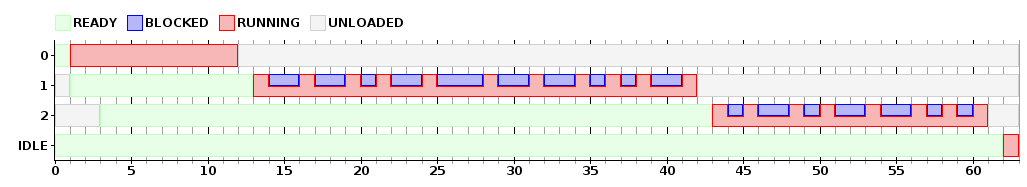
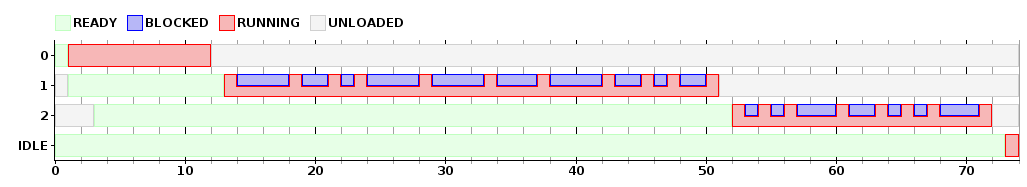
informe hasta ej 6 fix de TaskBatch semillas en metodos rand()

diff --git a/tp1/tp1-code/tasks.cpp b/tp1/tp1-code/tasks.cpp
@@ -19,12 +19,22 @@ void TaskCon(vector<int> params) { // params: 3
 	int n = params[0];
 	int bmin = params[1];
 	int bmax = params[2];
+	
+	// INICIALIZAMOS SEMILLA DE RAND()
+	srand ( time(NULL) );
+	
 	for( int i = 0; i < n ; i++ ) {
 		int time = bmin;
 		if(bmin != bmax)
-			time = (rand()%(bmax-bmin))+bmin;
+			time = (rand()%(bmax-bmin+1))+bmin;
 		uso_IO(time);
 	}
+}
+
+void TaskCPUIOCPU(vector<int> params) { // params: ms_cpu1, ms_io, ms_cpu2
+	uso_CPU(params[0]); // Uso el CPU ms_cpu1 milisegundos.
+	uso_IO(params[1]); // Uso IO ms_io milisegundos.
+	uso_CPU(params[2]); // Uso el CPU ms_cpu2 milisegundos.
 }
 
 void TaskLongCPUMultipleIO(vector<int> params) { // params: n
@@ -32,6 +42,10 @@ void TaskLongCPUMultipleIO(vector<int> params) { // params: n
 	int n = params[1];
 	int bmin = params[2];
 	int bmax = params[3];
+	
+	// INICIALIZAMOS SEMILLA DE RAND()
+	srand ( time(NULL) );
+	
 	for( int i = 0; i < n ; i++ ) {
 		int time = bmin;
 		if(bmin != bmax)
@@ -44,6 +58,10 @@ void TaskMultipleIOLongCPU(vector<int> params) { // params: n
 	int n = params[1];
 	int bmin = params[2];
 	int bmax = params[3];
+	
+	// INICIALIZAMOS SEMILLA DE RAND()
+	srand ( time(NULL) );
+	
 	for( int i = 0; i < n ; i++ ) {
 		int time = bmin;
 		if(bmin != bmax)
@@ -54,24 +72,26 @@ void TaskMultipleIOLongCPU(vector<int> params) { // params: n
 }
 
 void TaskBatch(vector<int> params) {
-	int blocksC = params[1];
 	int tot = params[0];
-	vector<bool> blocks = vector<bool>(tot-blocksC);
+	int blocksC = params[1];
+	
+	// INICIALIZAMOS SEMILLA DE RAND()
+	srand ( time(NULL) );
+	
+	vector<bool> blocks = vector<bool>(tot-blocksC-1);
 	for(int i=0;i<blocksC;i++) {
-		int blockT = rand()%(tot-blocksC-1);
+		int blockT = rand()%(blocks.size()-1);
 		if( !blocks[blockT] )
 			blocks[blockT] = true;
 		else
 			i--;
 	}
-	for(int i=0;i<tot-2*blocksC;i++) {
+	for(int i=0;i<(int)blocks.size();i++) {
 		if( blocks[i] ) {
-			printf("--%d IO\n", i);
 			uso_IO(1);
 		}
 		else
 		{
-			printf("--%d CPU\n", i);
 			uso_CPU(1);
 		}
 	}
@@ -87,5 +107,5 @@ void tasks_init(void) {
 	register_task(TaskLongCPUMultipleIO, 4);
 	register_task(TaskMultipleIOLongCPU, 4);
 	register_task(TaskBatch, 2);
-
+	register_task(TaskCPUIOCPU, 3);
 }

diff --git a/tp1/informe/parte2.tex b/tp1/informe/parte2.tex
@@ -9,4 +9,78 @@ Implementamos la clase requerida.
 
 \section{Ejercicio 4}
 
+\subsection{Lote 1}
+
+Primero creamos un nuevo tipo de Tarea llamada TaskCPUIOCPU que recibe 3 parametros:
+\begin{enumerate}
+ \item Tiempo de ejecución de CPU en ciclos de reloj
+ \item Tiempo de ejecución de IO en ciclos de reloj
+ \item Tiempo de ejecución de CPU en ciclos de reloj
+\end{enumerate}
+
+Creamos el archivo \verb|ejercicio4_1.tsk|
+
+\begin{framed}
+\begin{verbatim}
+# FILE ejercicio4_1.tsk
+*2 TaskCPU 30
+TaskCPUIOCPU 10 20 10
+\end{verbatim}
+\end{framed}
+
+Luego ejecutamos Simusched con los siguientes parametros:
+
+\begin{framed}
+\begin{verbatim}
+./simusched ejercicio4_1.tsk 1 SchedRR 3 | python graphsched.py > ejercicio4_1.png
+\end{verbatim}
+\end{framed}
+
+\begin{figure}[h!]
+  \caption{Dos tareas de uso intensivo de CPU y una tarea de tipo TaskCPUIOCPU.}
+  \centering
+    \includegraphics[width=1\textwidth]{img/ejercicio4_1.png}
+\end{figure}
+
+Se puede ver en el grafico que se van alternando los 3 procesos con un quantum de 3 unidades hasta que el proceso $(2)$ se bloquea.
+
+Mientras el $(2)$ está bloqueado se puede ver que los otros dos procesos van altenando su ejecución. 
+
+Hasta que el proceso $(2)$ se desblquea y nuevamente se vuelven a alternar los 3 procesos.
+
+\subsection{Lote 2}
+
+Utilizamos nuevamente la tarea que creamos anteriormente TaskCPUIOCPU.
+
+Creamos el archivo \verb|ejercicio4_2.tsk|
+
+\begin{framed}
+\begin{verbatim}
+# FILE ejercicio4_2.tsk
+TaskCPUIOCPU 10 20 10
+@3
+TaskCPUIOCPU 15 20 5
+@10
+TaskCPU 10
+\end{verbatim}
+\end{framed}
+
+Luego ejecutamos Simusched con los siguientes parametros:
+
+\begin{framed}
+\begin{verbatim}
+./simusched ejercicio4_2.tsk 1 SchedRR 4 | python graphsched.py > ejercicio4_2.png
+\end{verbatim}
+\end{framed}
+
+\begin{figure}[h!]
+  \caption{Dos tareas de tipo TaskCPUIOCPU y una tarea de uso intensivo de CPU.}
+  \centering
+    \includegraphics[width=1\textwidth]{img/ejercicio4_2.png}
+\end{figure}
+
+Hay tres procesos que se estan ejecutando.
+
 \section{Ejercicio 5}
+
+Implementamos la clase requerida.

diff --git a/tp1/informe/parte1.tex b/tp1/informe/parte1.tex
@@ -9,12 +9,18 @@ Implementamos el Metodo TaskCon segun lo pedido.
 
 \begin{framed}
 \begin{verbatimtab}
-void TaskCon(vector<int> params) { // params: n
+void TaskCon(vector<int> params) { // params: 3
 	int n = params[0];
 	int bmin = params[1];
 	int bmax = params[2];
+	
+	// INICIALIZAMOS SEMILLA DE RAND()
+	srand ( time(NULL) );
+	
 	for( int i = 0; i < n ; i++ ) {
-		int time = (rand()%(bmax-bmin))+bmin;
+		int time = bmin;
+		if(bmin != bmax)
+			time = (rand()%(bmax-bmin+1))+bmin;
 		uso_IO(time);
 	}
 }
